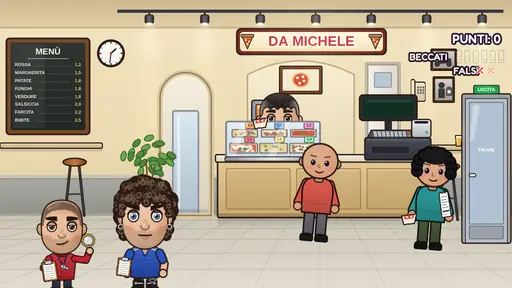
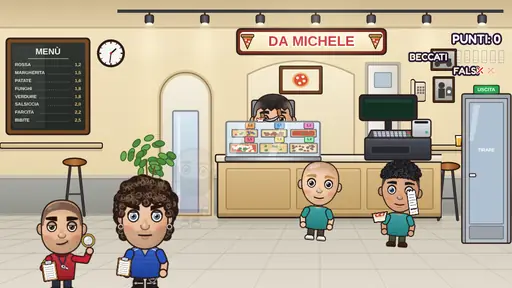
Scontrino, prego!: i clienti disegnati come i giocatori (figure intere, pettinature, barbe, vestiti e corporature diverse)
Claude-Session: https://claude.ai/code/session_01SvbmSwNcf9mbbMGxdptx9o

Changed region(s): [[0.7188, 0.5, 0.9062, 0.875], [0.5625, 0.5, 0.6875, 0.8438], [0.4688, 0.3125, 0.5938, 0.4688]]

diff --git a/PowerStation Party - sito/js/microgames/ScontrinoScene.js b/PowerStation Party - sito/js/microgames/ScontrinoScene.js
@@ -20,7 +20,7 @@ import { MicrogiocoBase } from './MicrogiocoBase.js';
 import { Audio } from '../audio.js';
 import { Sessione, DOPPIONE } from '../sessione.js';
 import { RES, casuale } from '../grafica/base.js';
-import { PIZZERIA as PZ, CLIENTE } from '../grafica/pizzeria.js';
+import { PIZZERIA as PZ, CLIENTE, TONI } from '../grafica/pizzeria.js';
 import { PERSONAGGI, FINANZIERI } from '../grafica/personaggi.js';
 import { preparaPosa, preparaCorpo, preparaTesta, preparaFigura } from '../sprites.js';
 import { txt, im, scalaDi, scritta, stelle, fumetto, fumo, caso, eTouch, perDito, vibra, puntiHud, numero, quanti } from '../fx.js';
@@ -34,6 +34,31 @@ const GISO = { x: 58, piedi: 276 };                 // il Giso, in primo piano i
 const VICE = { x: 136, piedi: 276, taglia: 0.84 };  // chi gioca, il suo vice
 const SC = 1.16;                                    // la grandezza dei clienti (la testa sopra il banco)
 const [MX, MY] = CLIENTE.mano;
+// i clienti sono disegnati come i giocatori (scheda di valutazione 2: "i clienti sono fatti male
+// rispetto ai giocatori"): figure intere fatte col disegnatore dei personaggi, una per aspetto
+const ALTEZZA_CL = 0.62;                             // la grandezza della figura (come SC per i vecchi pezzi)
+const MANO_CL = [16, -31];                          // la mano destra rispetto ai piedi, nella figura
+const STILI_CL = ['rasato', 'corto', 'mossi', 'ricciCorti', 'ciuffo', 'caschetto', 'coda', 'stempiato'];
+const hex = (n) => '#' + n.toString(16).padStart(6, '0');
+// le comparse in coda all'arco (terzo atto)
+const gente = (k) => ({ tipo: k % 2, tono: (k * 2) % 3, capelli: k % 4, maglia: MAGLIE[(k * 3) % MAGLIE.length], pantaloni: PANTALONI[k % PANTALONI.length], coloreCapelli: CAPELLI[(k * 5) % CAPELLI.length], barba: k % 3 });
+const chiaveCliente = (a) => `clPz_${a.tipo}${a.tono}${a.capelli}_${a.maglia.toString(16)}_${a.pantaloni.toString(16)}_${a.coloreCapelli.toString(16)}${a.furbo ? 'f' : ''}${a.barba ?? ''}`;
+// l'aspetto del programma -> una voce come quelle di PERSONAGGI
+function figuraCliente(a) {
+  const H = hex(a.coloreCapelli), stile = a.furbo ? 'corto' : STILI_CL[(a.capelli + 1) % STILI_CL.length];
+  const donna = stile === 'caschetto' || stile === 'coda';
+  return {
+    pelle: TONI[a.tono], capelli: H, capelliLuce: '#' + [1, 3, 5].map((k) => Math.min(255, parseInt(H.slice(k, k + 2), 16) + 60).toString(16).padStart(2, '0')).join(''),
+    occhi: ['#3a2414', '#2f6fa8', '#4a6a3a'][a.tono % 3], sopra: H, sopraSpess: donna ? 5.5 : 7.5,
+    faccia: donna ? { top: 48, larg: 52, mascella: 40, mascellaY: 152, mento: 17, mentoY: 181 } : { top: 46, larg: 56, mascella: a.tipo ? 52 : 44, mascellaY: 150, mento: a.tipo ? 26 : 19, mentoY: 179 },
+    stile, barba: donna ? 'nessuna' : ['nessuna', 'accenno', 'piena', 'nessuna'][a.barba ?? 0], naso: [8, 11], orecchie: 9, sorriso: a.furbo ? 1 : 3,
+    ...(donna ? { ciglia: true, labbra: true, rossetto: '#c8405a', statura: 0.94 } : {}),
+    corporatura: a.tipo ? 1.22 : 1, pancia: a.tipo ? 6 : 0,
+    vestito: { tipo: a.furbo ? 'giacca' : ['tshirt', 'felpa', 'tshirt', 'camicia'][(a.capelli + 1 + a.tono) % 4], colore: hex(a.maglia), collo: 'giro' },
+    pantaloni: hex(a.pantaloni), scarpe: ['#f3f3f3', '#3a2418', '#2a2a30'][(a.tono + a.tipo) % 3],
+    ...(a.furbo ? { occhiali: { montatura: '#121216', lenti: '#1c2029' } } : {}),
+  };
+}
 // i colori dei clienti (pochi tipi generici, ricolorati col tint)
 const MAGLIE = [0xe05a4e, 0x3a8fd8, 0x4caf6a, 0xf2c43a, 0x8a5ad8, 0xff8a3a, 0x2a9a9a, 0xe8e4da, 0xd85a9a];
 const PANTALONI = [0x2f3a52, 0x3a3a40, 0x5a4a3a, 0x2a4a7a, 0x6a6a70, 0x4a5a3a];
@@ -96,6 +121,7 @@ export function programma(c, seme, durata, lampo) {
     const aspetto = {
       tipo: rnd() < 0.35 ? 1 : 0, tono: Math.floor(rnd() * 3), capelli: Math.floor(rnd() * 5) - 1,
       maglia: MAGLIE[Math.floor(rnd() * MAGLIE.length)], pantaloni: PANTALONI[Math.floor(rnd() * PANTALONI.length)], coloreCapelli: CAPELLI[Math.floor(rnd() * CAPELLI.length)],
+      barba: Math.floor(rnd() * 4),
     };
     const prezzo = c.prezzi[Math.floor(rnd() * c.prezzi.length)];
     // il percorso fino alla cassa: [quando, x, y]
@@ -216,6 +242,11 @@ export class ScontrinoScene extends MicrogiocoBase {
     for (let k = 0; k < imbrogli; k++) perfetta += (c.punti.preso + c.punti.subito) * c.serie.reduce((m, [n, f]) => (k >= n ? f : m), 1);
     this.fattore = this.lampo || !perfetta ? 1 : c.perfetta / perfetta;
     this.clienti = this.prog.clienti.map((cl) => ({ ...cl, x: X.arco, y: PIEDI, fermo: 0, ferma: -1, esito: null, uscito: false, progresso: 0 }));
+    // le figure dei clienti di stasera (solo quelli che arrivano prima della fine), una per aspetto
+    for (const a of [...this.clienti.filter((cl) => cl.t.A <= this.durata).map((cl) => cl.aspetto), gente(2), gente(5)]) {
+      const k = chiaveCliente(a);
+      if (!this.textures.exists(k)) preparaFigura(this, k, figuraCliente(a), 'normale', {}, DENS_M);
+    }
     this.tocca = eTouch();
     this.grezzo = 0; this.presi = 0; this.falsi = 0; this.scappati = 0; this.serie = 0; this.serieMax = 0;
     this.nAtto = -1; this.iSeg = 0; this.facce = [];
@@ -333,14 +364,9 @@ export class ScontrinoScene extends MicrogiocoBase {
 
   // ---------- i clienti ----------
   entra(cl) {
-    const a = cl.aspetto, pezzi = [];
-    const pezzo = (key, tinta) => { const p = this.add.image(0, 0, key).setOrigin(0.5, 1).setScale(scalaDi(key, 1)); if (tinta != null) p.setTint(tinta); pezzi.push(p); };
-    pezzo(`clGambe${a.tipo}`, a.pantaloni);
-    pezzo(`clMaglia${a.tipo}`, a.maglia);
-    pezzo(`clPelle${a.tipo}_${a.tono}`);
-    if (a.capelli >= 0) pezzo(`clCapelli${a.capelli}`, a.coloreCapelli);
-    if (a.furbo) pezzo('clOcchiali');
-    cl.spr = this.add.container(X.arco, PIEDI - 14, pezzi).setScale(SC, a.furbo ? SC * 0.9 : SC).setAlpha(0);
+    const k = chiaveCliente(cl.aspetto);
+    if (!this.textures.exists(k)) preparaFigura(this, k, figuraCliente(cl.aspetto), 'normale', {}, DENS_M);
+    cl.spr = this.add.image(X.arco, PIEDI - 14, k).setOrigin(0.5, 1).setScale(scalaDi(k, ALTEZZA_CL)).setAlpha(0);
     this.tweens.add({ targets: cl.spr, alpha: 1, duration: 250 });
   }
 
@@ -377,14 +403,14 @@ export class ScontrinoScene extends MicrogiocoBase {
     cl.spr.setPosition(x, y - (cammina ? Math.abs(Math.sin(t * f + cl.i)) * 1.8 : 0)).setAngle(cammina ? dir * (cl.furbo ? 6 : 3) + Math.sin(t * f + cl.i) * 2 : 0);
     cl.spr.setDepth(30 + y * 0.05 + cl.i * 0.001);
     // quello che ha in mano: lo scontrino nella destra (più grande a FACILE), il trancio o il cartone nell'altra
-    const lato = dir < 0 ? -1 : 1, hx = x + lato * MX * SC, hy = y + MY * SC;
+    const lato = dir < 0 ? -1 : 1, hx = x + lato * MANO_CL[0], hy = y + MANO_CL[1];
     if (cl.scontrino) {
       // (lo tiene un po' alzato, che si veda bene; se lo sventola, sopra la testa)
       const sv = t < cl.sventola;
       cl.scontrino.setPosition(hx + (sv ? -lato * 6 : 0), hy - (sv ? 18 : 4)).setAngle(sv ? Math.sin(t * 32) * 28 : -8 * lato).setDepth(cl.spr.depth + 0.5);
       cl.croce?.setPosition(cl.scontrino.x, cl.scontrino.y - 6).setDepth(cl.spr.depth + 0.6);
     }
-    if (cl.oggetto) cl.oggetto.setPosition(x - lato * MX * SC, hy + 1).setDepth(cl.spr.depth + 0.4);
+    if (cl.oggetto) cl.oggetto.setPosition(x - lato * MANO_CL[0], hy + 1).setDepth(cl.spr.depth + 0.4);
   }
 
   // il cliente arriva alla porta ed esce: se aveva un imbroglio e nessuno l'ha fermato, è scappato
@@ -414,20 +440,20 @@ export class ScontrinoScene extends MicrogiocoBase {
     this.trancioSulBanco = null;
     if (!tr || !cl.spr) { tr?.destroy(); return; }
     tr.setTexture('trancio').setScale(scalaDi('trancio', 1)).setOrigin(0.5);
-    this.tweens.add({ targets: tr, x: cl.x - MX * SC, y: cl.y + MY * SC, duration: 260, ease: 'Sine.out', onComplete: () => { if (cl.uscito) tr.destroy(); else cl.oggetto = tr; } });
+    this.tweens.add({ targets: tr, x: cl.x - MANO_CL[0], y: cl.y + MANO_CL[1], duration: 260, ease: 'Sine.out', onComplete: () => { if (cl.uscito) tr.destroy(); else cl.oggetto = tr; } });
   }
 
   // il cartone da asporto (o lo scontrino strappato di corsa): da dietro la cassa al cliente
   dallaCassa(cl, key) {
     if (!cl.spr) return;
     const o = im(this, MIK.cassa + 8, PZ.piano - 4, key).setDepth(25);
-    this.tweens.add({ targets: o, x: cl.x - MX * SC, y: cl.y + MY * SC + 1, duration: 260, ease: 'Sine.out', onComplete: () => { if (cl.uscito) o.destroy(); else { cl.oggetto?.destroy(); cl.oggetto = o; } } });
+    this.tweens.add({ targets: o, x: cl.x - MANO_CL[0], y: cl.y + MANO_CL[1] + 1, duration: 260, ease: 'Sine.out', onComplete: () => { if (cl.uscito) o.destroy(); else { cl.oggetto?.destroy(); cl.oggetto = o; } } });
   }
 
   // i soldi: dal cliente al cassetto ("cling"), oppure (conto a voce) nella mano di Michele
   paga(cl) {
     if (!cl.spr) return;
-    const voce = cl.trucco === 'voce', b = im(this, cl.x + MX * SC, cl.y + MY * SC, 'banconota').setDepth(26);
+    const voce = cl.trucco === 'voce', b = im(this, cl.x + MANO_CL[0], cl.y + MANO_CL[1], 'banconota').setDepth(26);
     if (voce) {
       this.frase(caso(this.cfg.frasiVoce).replace('{prezzo}', aVoce(cl.prezzo)), (cl.t.seg - cl.t.P + cl.t.d * 0.5) * 1000);
       this.tweens.add({ targets: b, x: MIK.cassa + 22, y: 128, delay: 300, duration: 300, ease: 'Sine.out' });
@@ -476,7 +502,7 @@ export class ScontrinoScene extends MicrogiocoBase {
     if (!cl.spr || cl.uscito) { s.destroy(); return; }
     const k = this.cfg.evidenti ? 1.3 : 1;
     s.setOrigin(0.5, 0.85);
-    this.tweens.add({ targets: s, x: cl.x + MX * SC, y: cl.y + MY * SC, scale: scalaDi('scontrinoCarta', 0.95 * k), duration: Math.max(140, dur * 1000), ease: 'Sine.out', onComplete: () => { if (cl.uscito) s.destroy(); else cl.scontrino = s; } });
+    this.tweens.add({ targets: s, x: cl.x + MANO_CL[0], y: cl.y + MANO_CL[1], scale: scalaDi('scontrinoCarta', 0.95 * k), duration: Math.max(140, dur * 1000), ease: 'Sine.out', onComplete: () => { if (cl.uscito) s.destroy(); else cl.scontrino = s; } });
   }
 
   // lo strappo: Michele prende lo scontrino, lo strappa davanti al petto e se lo mette in tasca
@@ -506,7 +532,7 @@ export class ScontrinoScene extends MicrogiocoBase {
     if (!cl.spr || cl.uscito) return;
     Audio.sfx('foglio');
     const v = im(this, MIK.cassa + 6, PZ.piano - 2, 'volantino', 0.5).setDepth(25);
-    this.tweens.add({ targets: v, x: cl.x + MX * SC, y: cl.y + MY * SC, scale: scalaDi('volantino', this.cfg.evidenti ? 1.25 : 1), duration: Math.max(160, dur * 1000), ease: 'Sine.out', onComplete: () => { if (cl.uscito) v.destroy(); else cl.scontrino = v; } });
+    this.tweens.add({ targets: v, x: cl.x + MANO_CL[0], y: cl.y + MANO_CL[1], scale: scalaDi('volantino', this.cfg.evidenti ? 1.25 : 1), duration: Math.max(160, dur * 1000), ease: 'Sine.out', onComplete: () => { if (cl.uscito) v.destroy(); else cl.scontrino = v; } });
   }
 
   // ALL'ULTIMO: il cliente si è girato senza scontrino, Michele se ne accorge e grida
@@ -522,7 +548,7 @@ export class ScontrinoScene extends MicrogiocoBase {
     Audio.sfx('stampante');
     const F = PZ.fessura, s = im(this, F.x, F.y - 10, 'scontrinoCarta', 0.95).setOrigin(0.5, 0.85).setDepth(90), q = { k: 0 };
     this.tweens.add({ targets: q, k: 1, duration: dur * 1000, ease: 'Sine.out',
-      onUpdate: () => { const k = q.k; s.setPosition(lerp(F.x, cl.x + MX * SC, k), lerp(F.y - 10, cl.y + MY * SC, k) - Math.sin(k * Math.PI) * 30).setAngle(k * 540); },
+      onUpdate: () => { const k = q.k; s.setPosition(lerp(F.x, cl.x + MANO_CL[0], k), lerp(F.y - 10, cl.y + MANO_CL[1], k) - Math.sin(k * Math.PI) * 30).setAngle(k * 540); },
       onComplete: () => {
         if (cl.uscito) { s.destroy(); return; }
         s.setAngle(0); cl.scontrino?.destroy(); cl.scontrino = s; cl.sventola = this.trascorso + 0.6;
@@ -627,7 +653,7 @@ export class ScontrinoScene extends MicrogiocoBase {
     if (cl.furbo) {
       // il furbetto, beccato: torna indietro e paga (i soldi volano nel cassetto)
       fumetto(this, Math.min(cl.x, 400), cl.y - 104, 'Pagavo, pagavo!', 900, 955);
-      const b = im(this, cl.x + MX * SC, cl.y + MY * SC, 'banconota').setDepth(90);
+      const b = im(this, cl.x + MANO_CL[0], cl.y + MANO_CL[1], 'banconota').setDepth(90);
       this.tweens.add({ targets: b, x: 372, y: 138, delay: 300, duration: 420, ease: 'Sine.out', onComplete: () => { b.destroy(); Audio.sfx('cassa'); } });
       this.dopoPreso(prima, t);
       return;
@@ -639,7 +665,7 @@ export class ScontrinoScene extends MicrogiocoBase {
       Audio.sfx('stampante');
       cl.carta?.destroy(); cl.carta = null;
       const F = PZ.fessura, s = im(this, F.x, F.y - 10, 'scontrinoCarta', 0.75).setOrigin(0.5, 0.85).setDepth(90);
-      this.tweens.add({ targets: s, x: cl.x + MX * SC, y: cl.y + MY * SC, angle: { from: -30, to: 360 }, duration: 420, ease: 'Sine.out', onComplete: () => { if (cl.uscito) s.destroy(); else { cl.scontrino?.destroy(); s.setAngle(0); cl.scontrino = s; } } });
+      this.tweens.add({ targets: s, x: cl.x + MANO_CL[0], y: cl.y + MANO_CL[1], angle: { from: -30, to: 360 }, duration: 420, ease: 'Sine.out', onComplete: () => { if (cl.uscito) s.destroy(); else { cl.scontrino?.destroy(); s.setAngle(0); cl.scontrino = s; } } });
     });
     this.dopoPreso(prima, t);
   }
@@ -726,13 +752,12 @@ export class ScontrinoScene extends MicrogiocoBase {
 
   // le comparse: chi aspetta in coda all'arco (terzo atto) e chi mangia alla mensola (dal secondo)
   comparsa(x, y, a, oggetto) {
-    const pezzi = [`clGambe${a.tipo}`, `clMaglia${a.tipo}`, `clPelle${a.tipo}_${a.tono}`, a.capelli >= 0 ? `clCapelli${a.capelli}` : null].filter(Boolean);
-    const tinte = [a.pantaloni, a.maglia, null, a.coloreCapelli];
-    const imgs = pezzi.map((k, i) => { const p = this.add.image(0, 0, k).setOrigin(0.5, 1).setScale(scalaDi(k, 1)); if (tinte[i] != null) p.setTint(tinte[i]); return p; });
-    const c = this.add.container(x, y, imgs).setScale(SC * 0.94).setDepth(28).setAlpha(0);
+    const k = chiaveCliente(a);
+    if (!this.textures.exists(k)) preparaFigura(this, k, figuraCliente(a), 'normale', {}, DENS_M);
+    const c = this.add.image(x, y, k).setOrigin(0.5, 1).setScale(scalaDi(k, ALTEZZA_CL * 0.94)).setDepth(28).setAlpha(0);
     this.tweens.add({ targets: c, alpha: 1, duration: 400 });
     this.tweens.add({ targets: c, y: y - 1, duration: 700 + x, yoyo: true, repeat: -1, ease: 'Sine.inOut' });
-    if (oggetto) im(this, x - MX * SC, y + MY * SC + 1, oggetto).setDepth(28.5);
+    if (oggetto) im(this, x - MANO_CL[0], y + MANO_CL[1] + 1, oggetto).setDepth(28.5);
     this.comparse.push(c);
   }
 
@@ -749,7 +774,6 @@ export class ScontrinoScene extends MicrogiocoBase {
         const nome = this.cfg.atti[atto].nome.replace('{locale}', this.cfg.nomeLocale.toUpperCase());
         scritta(this, 240, 70, nome, { size: 15, color: atto === 2 ? '#ff6b5a' : '#ffe14a', durata: 900, depth: 970 });
       }
-      const gente = (k) => ({ tipo: k % 2, tono: (k * 2) % 3, capelli: k % 4, maglia: MAGLIE[(k * 3) % MAGLIE.length], pantaloni: PANTALONI[k % PANTALONI.length], coloreCapelli: CAPELLI[(k * 5) % CAPELLI.length] });
       if (atto >= 2 && !this.inCoda) { this.inCoda = true; this.comparsa(188, 210, gente(2)); this.comparsa(204, 213, gente(5), 'cartonePizza'); }
     }
     for (const cl of this.clienti) this.aggiornaCliente(cl, t, dt);

diff --git a/PowerStation Party - sito/js/grafica/pizzeria.js b/PowerStation Party - sito/js/grafica/pizzeria.js
@@ -371,11 +371,6 @@ function crocione(c) {
   for (const [a, b, d, e] of [[2, 2, 12, 12], [12, 2, 2, 12]]) { c.beginPath(); c.moveTo(a, b); c.lineTo(d, e); tratto(c, '#ffffff', 4.4); tratto(c, '#e0242c', 2.6); }
 }
 // gli occhiali scuri del furbetto (un pezzo in più del cliente, sopra la faccia)
-function occhialiFurbetto(c) {
-  for (const s of [-1, 1]) { rrect(c, 20 + s * 6 - 4.5, 17.5, 9, 5.5, 2); c.fillStyle = '#16161c'; c.fill(); tratto(c, CONT, 0.9); }
-  c.beginPath(); c.moveTo(18, 19.5); c.lineTo(22, 19.5); tratto(c, CONT, 1);
-  ellisse(c, 15.5, 19, 1.2, 0.8); c.fillStyle = 'rgba(255,255,255,0.6)'; c.fill();
-}
 // la luce blu del lampeggiante, che entra dalla porta (i finanzieri sono arrivati)
 function lampeggio(c) {
   c.fillStyle = gradR(c, 30, 60, 2, 60, [[0, 'rgba(90,150,255,0.85)'], [0.5, 'rgba(60,110,255,0.35)'], [1, 'rgba(60,110,255,0)']]);
@@ -390,66 +385,11 @@ function multa(c) {
 }
 
 // ------------------------------------------------------------
-//  I CLIENTI: pochi tipi generici a pezzi, bianchi e grigi, che la scena ricolora col tint
-//  (gambe = i pantaloni, maglia = la maglietta, capelli = i capelli); la pelle (testa, collo e mani,
-//  con la faccia) ha già il suo colore. Ogni pezzo è 40x84, coi piedi in basso al centro.
-//  tipo 0 = snello, 1 = robusto
+//  I CLIENTI: dalla seconda scheda di valutazione sono figure intere fatte col disegnatore dei
+//  personaggi (ScontrinoScene: figuraCliente). Qui restano i toni della pelle e la misura di prima.
 // ------------------------------------------------------------
 export const CLIENTE = { w: 40, h: 84, mano: [15, -27] };   // (la mano destra rispetto ai piedi: lì tiene le cose)
 export const TONI = ['#f2caa6', '#d9a07a', '#9a6440'];
-const largo = (t) => (t ? 15.5 : 12.5);
-
-function gambeCliente(c, t) {
-  const w = t ? 9.5 : 8;
-  for (const s of [-1, 1]) {
-    const x = 20 + s * (t ? 6 : 5) - w / 2;
-    rrect(c, x, 57, w, 23, 2.5); c.fillStyle = gradL(c, 0, 57, 0, 80, [[0, '#ffffff'], [1, '#c8c8c8']]); c.fill(); tratto(c, CONT, 1.1);
-    rrect(c, x - (s < 0 ? 2 : 0), 78, w + 2, 5.5, [2.5, 2.5, 1.2, 1.2]); c.fillStyle = '#3a3a40'; c.fill(); tratto(c, CONT, 1.1);
-  }
-}
-function magliaCliente(c, t) {
-  const L = largo(t);
-  for (const s of [-1, 1]) { c.beginPath(); c.moveTo(20 + s * (L - 3), 37); c.lineTo(20 + s * (L + 2.5), 53); tratto(c, CONT, 7.6); tratto(c, '#f4f4f4', 5.3); }
-  c.beginPath(); c.moveTo(20 - L, 45); c.quadraticCurveTo(20 - L, 34, 20 - L + 7, 33); c.lineTo(20 + L - 7, 33); c.quadraticCurveTo(20 + L, 34, 20 + L, 45);
-  if (t) { c.quadraticCurveTo(20 + L + 3, 53, 20 + L - 1, 61); c.lineTo(20 - L + 1, 61); c.quadraticCurveTo(20 - L - 3, 53, 20 - L, 45); }
-  else { c.lineTo(20 + L - 1, 61); c.lineTo(20 - L + 1, 61); }
-  c.closePath();
-  c.fillStyle = gradL(c, 0, 33, 0, 61, [[0, '#ffffff'], [1, '#cfcfcf']]); c.fill(); tratto(c, CONT, 1.2);
-  c.beginPath(); c.moveTo(20 - L + 4, 52); c.quadraticCurveTo(20, 55, 20 + L - 4, 52); tratto(c, 'rgba(0,0,0,0.1)', 1.2);
-}
-function pelleCliente(c, t, tono) {
-  const S = TONI[tono], L = largo(t);
-  rrect(c, 16.5, 27, 7, 9, 2); c.fillStyle = scuro(S, 0.12); c.fill(); tratto(c, CONT, 1);
-  for (const s of [-1, 1]) { ellisse(c, 20 + s * (L + 2.5), 56.5, 3.3, 3.3); c.fillStyle = S; c.fill(); tratto(c, CONT, 1); }
-  for (const s of [-1, 1]) { ellisse(c, 20 + s * 14.4, 20.5, 2.6, 3.4); c.fillStyle = scuro(S, 0.05); c.fill(); tratto(c, CONT, 1); }
-  ellisse(c, 20, 19, 14.5, 14); c.fillStyle = gradR(c, 16, 14, 2, 18, [[0, chiaro(S, 0.12)], [1, S]]); c.fill(); tratto(c, CONT, 1.3);
-  for (const s of [-1, 1]) {
-    ellisse(c, 20 + s * 5.6, 20.5, 1.9, 2.3); c.fillStyle = '#1f1430'; c.fill();
-    ellisse(c, 20 + s * 5.6 - 0.6, 19.6, 0.6, 0.6); c.fillStyle = '#ffffff'; c.fill();
-    c.beginPath(); c.moveTo(20 + s * 3.6, 15.6); c.lineTo(20 + s * 7.8, 15); tratto(c, scuro(S, 0.55), 1.1);
-    ellisse(c, 20 + s * 8.6, 24.6, 2.4, 1.4); c.fillStyle = 'rgba(238,105,95,0.3)'; c.fill();
-  }
-  c.beginPath(); c.moveTo(19.2, 22); c.quadraticCurveTo(18.2, 24.4, 20.4, 24.4); tratto(c, scuro(S, 0.4), 0.8);
-  c.beginPath(); c.moveTo(17, 27.4); c.quadraticCurveTo(20, 29.4, 23, 27.4); tratto(c, CONT, 1);
-}
-function capelliCliente(c, s) {
-  const fill = () => { c.fillStyle = gradL(c, 0, 3, 0, 30, [[0, '#ffffff'], [1, '#bdbdbd']]); c.fill(); tratto(c, CONT, 1.1); };
-  if (s === 0) {   // corti
-    c.beginPath(); c.moveTo(5.4, 20); c.bezierCurveTo(4, 7, 12, 3.4, 20, 3.4); c.bezierCurveTo(28, 3.4, 36, 7, 34.6, 20);
-    c.lineTo(32, 13); [[28, 11.5], [24, 13.5], [20, 11.5], [16, 13.5], [12, 11.5], [8.5, 13.5]].forEach(([x, y]) => c.lineTo(x, y)); c.closePath(); fill();
-  } else if (s === 1) {   // lunghi, che scendono ai lati del viso
-    c.beginPath(); c.moveTo(4, 42); c.bezierCurveTo(1.5, 26, 3, 6, 20, 3.2); c.bezierCurveTo(37, 6, 38.5, 26, 36, 42); c.lineTo(31, 42);
-    c.bezierCurveTo(33.5, 30, 33, 18, 29, 13); c.quadraticCurveTo(20, 16.5, 10.5, 12.5); c.bezierCurveTo(7, 18, 6.5, 30, 9, 42); c.closePath(); fill();
-  } else if (s === 2) {   // ricci
-    for (let k = 0; k < 11; k++) { const a = Math.PI * (0.92 + k * 0.116); ellisse(c, 20 + Math.cos(a) * 14, 18 + Math.sin(a) * 13.5, 4.4, 4.4); fill(); }
-    ellisse(c, 20, 9, 11, 6); c.fillStyle = '#e8e8e8'; c.fill();
-  } else {   // la coda
-    c.beginPath(); c.moveTo(34, 12); c.bezierCurveTo(42, 14, 41, 28, 37, 36); c.bezierCurveTo(36, 28, 35, 20, 31, 16); c.closePath(); fill();
-    c.beginPath(); c.moveTo(5.4, 19); c.bezierCurveTo(4, 7, 12, 3.4, 20, 3.4); c.bezierCurveTo(28, 3.4, 36, 7, 34.6, 19);
-    c.quadraticCurveTo(26, 9, 20, 10); c.quadraticCurveTo(12, 10, 5.4, 19); c.closePath(); fill();
-    rrect(c, 31, 10.5, 4.5, 4, 1.5); c.fillStyle = '#9a9a9a'; c.fill(); tratto(c, CONT, 0.8);
-  }
-}
 
 export function creaPizzeria(scene) {
   tela(scene, 'bgPizzeria', 480, 270, sfondo);
@@ -475,12 +415,5 @@ export function creaPizzeria(scene) {
   tela(scene, 'volantino', 14, 16, volantino, 6);
   tela(scene, 'crocione', 14, 14, crocione, 6);
   tela(scene, 'lampeggio', 60, 120, lampeggio, 2);
-  tela(scene, 'clOcchiali', 40, 84, occhialiFurbetto, 3);
   tela(scene, 'multa', 14, 18, multa, 6);
-  for (const t of [0, 1]) {
-    tela(scene, `clGambe${t}`, 40, 84, (c) => gambeCliente(c, t), 3);
-    tela(scene, `clMaglia${t}`, 40, 84, (c) => magliaCliente(c, t), 3);
-    for (const k of [0, 1, 2]) tela(scene, `clPelle${t}_${k}`, 40, 84, (c) => pelleCliente(c, t, k), 3);
-  }
-  for (const s of [0, 1, 2, 3]) tela(scene, `clCapelli${s}`, 40, 84, (c) => capelliCliente(c, s), 3);
 }
